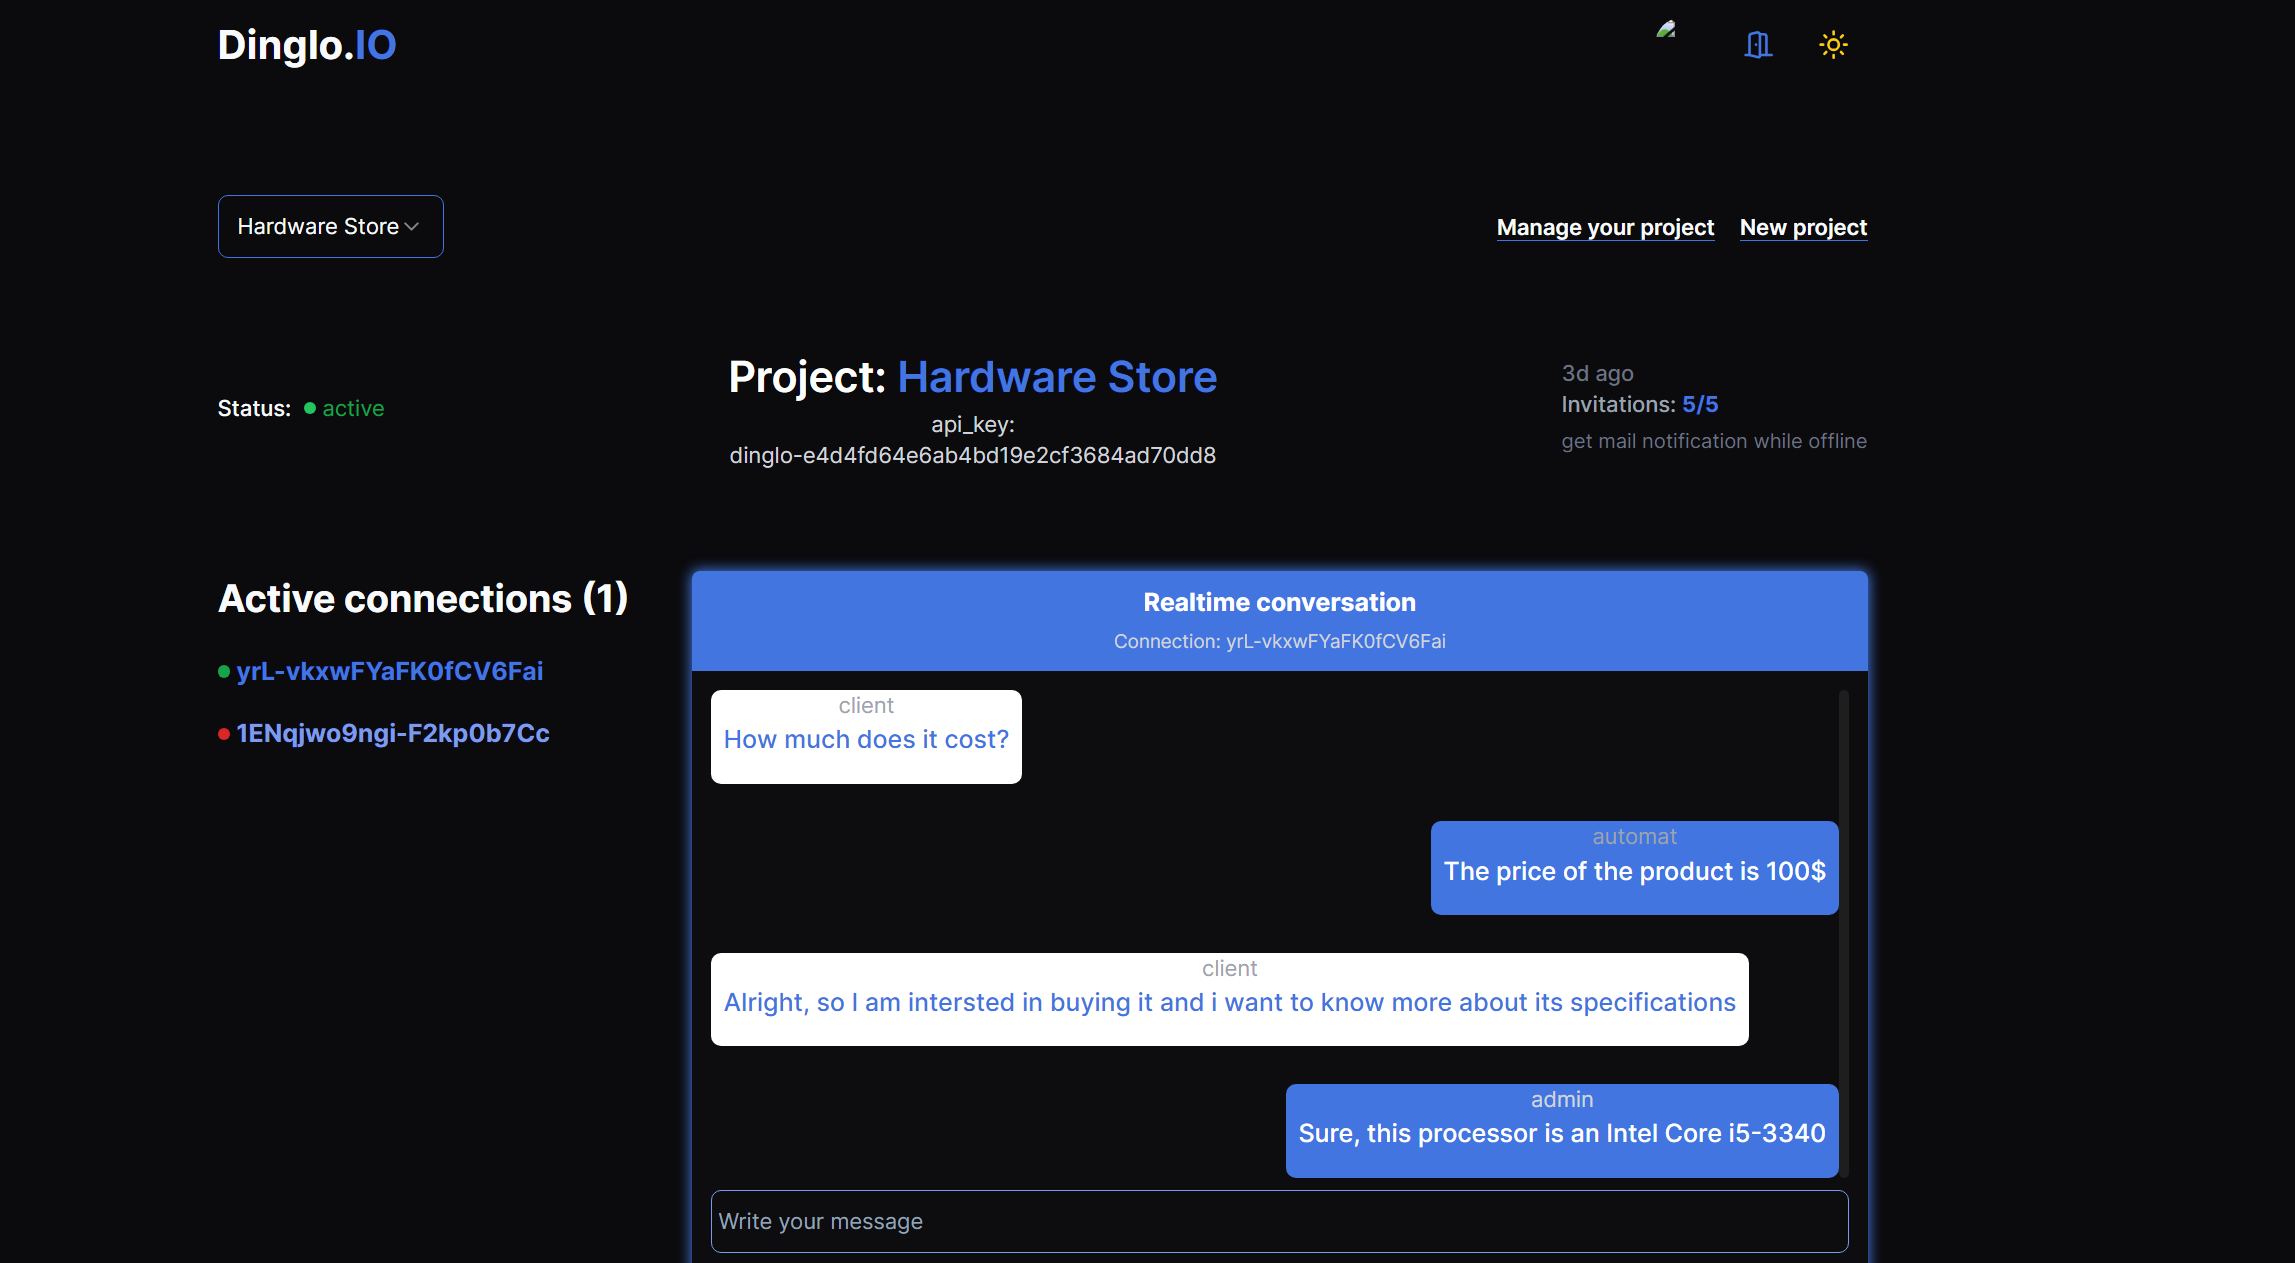
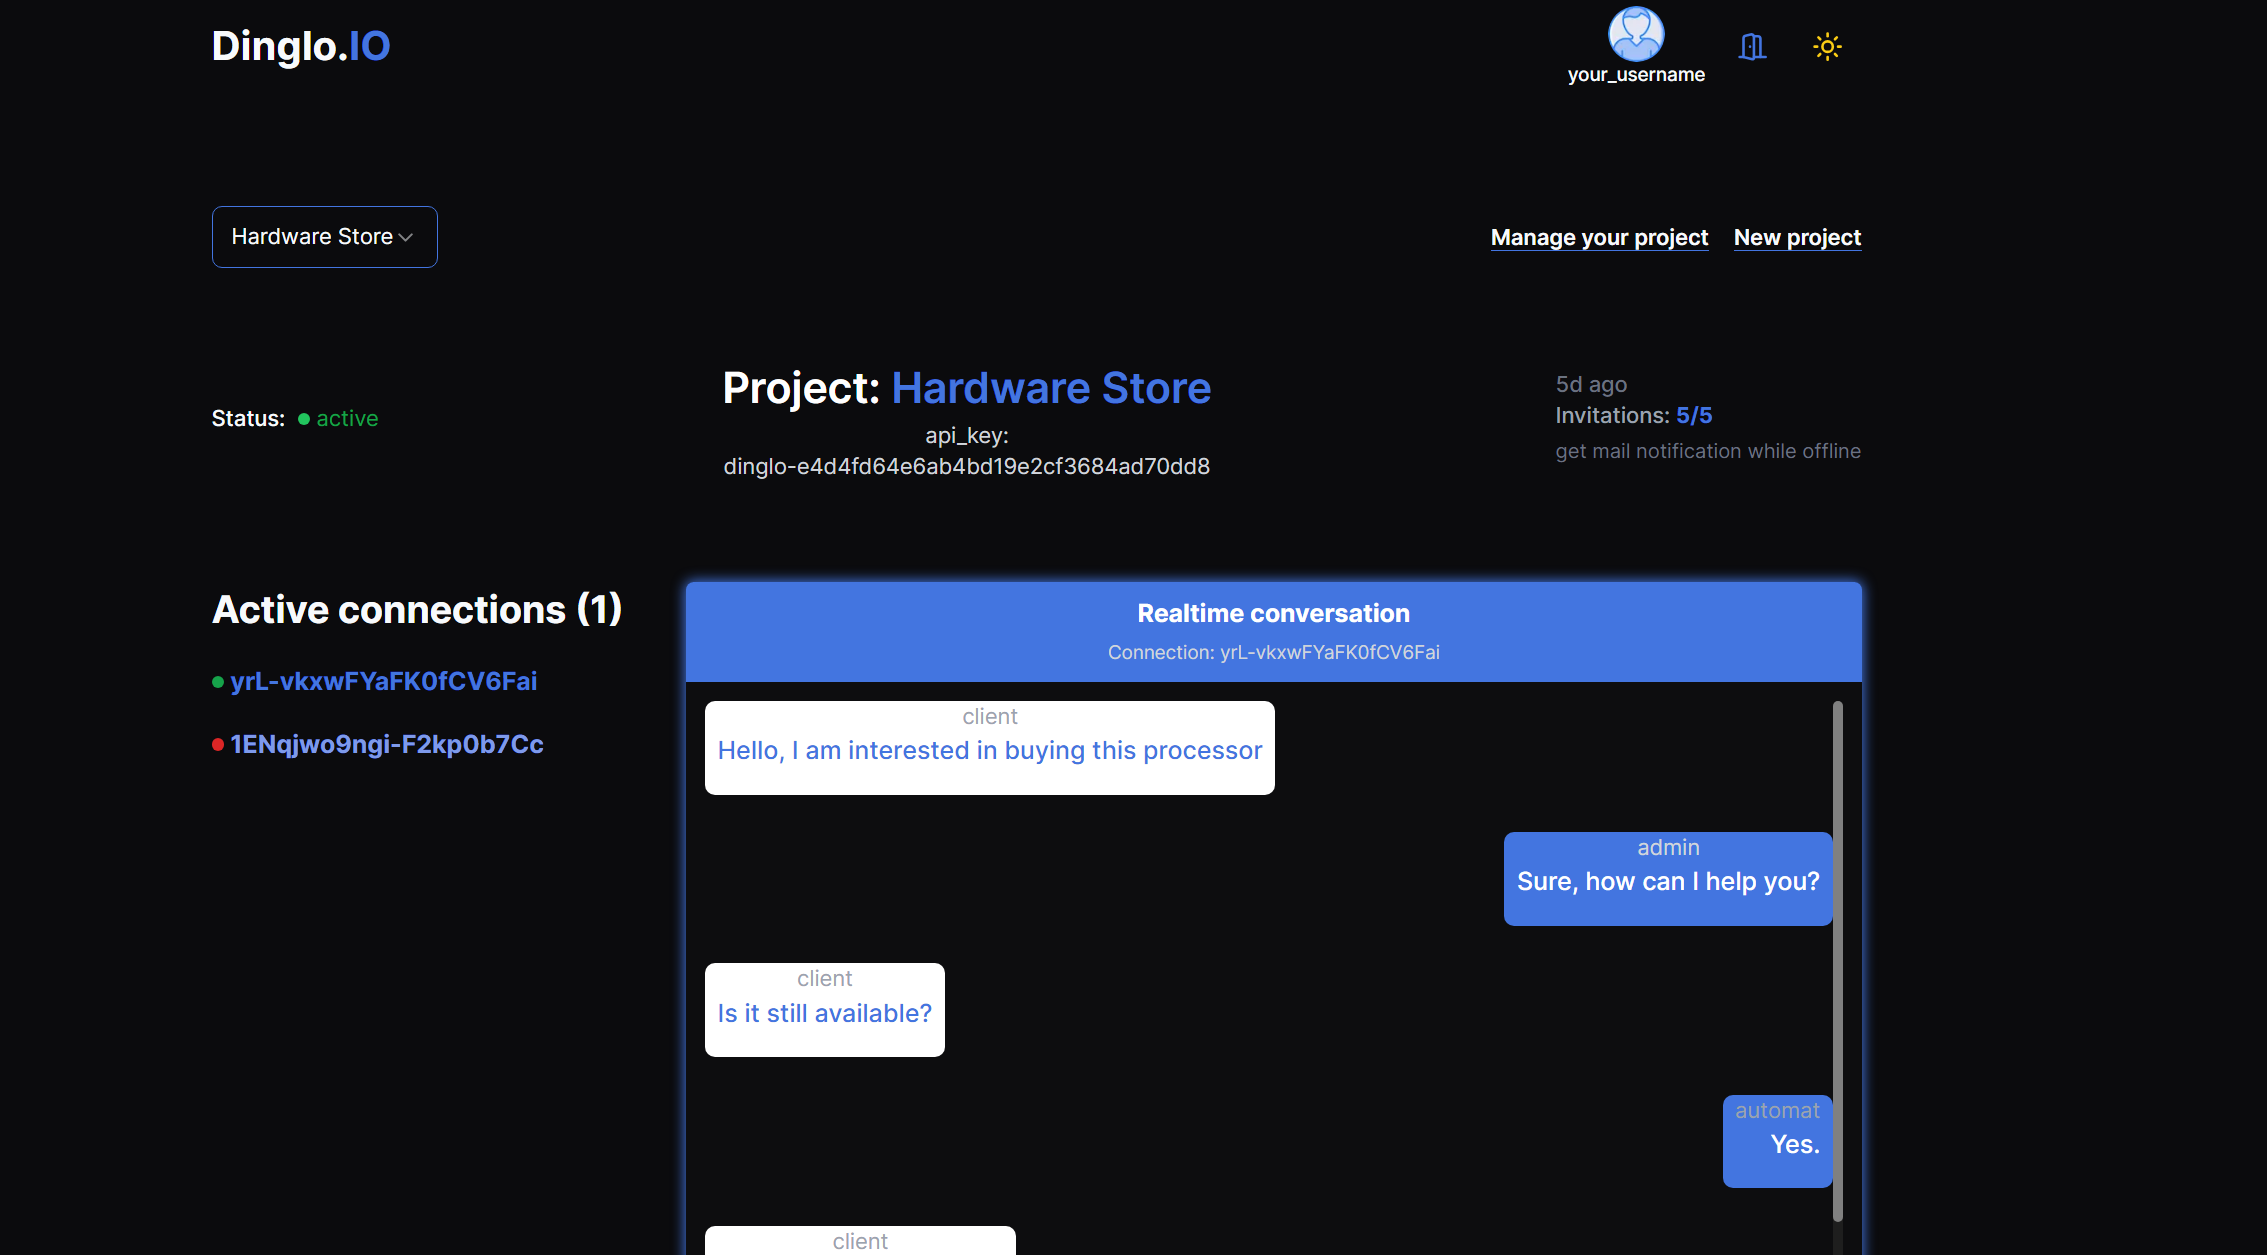
chore - docs adjustments

diff --git a/app/(routes)/docs/workflow/page.tsx b/app/(routes)/docs/workflow/page.tsx
@@ -1,13 +1,22 @@
 import Image from "next/image";
 import { DocumentationSectionLink } from "../components/documentation-section-link";
-import { ArrowRight, File, FileBadge, FileBox, FolderArchive, Text, Waves } from "lucide-react";
+import {
+  ArrowRight,
+  File,
+  FileBadge,
+  FileBox,
+  FolderArchive,
+  Text,
+  Waves,
+} from "lucide-react";
 
 const AgentCustomizationPage = () => {
   return (
     <div>
       <h1 className="font-bold text-[2.3em]">Workflow</h1>
       <p className="text-sm font-medium dark:text-gray-300">
-        This is a simplificated version that showcase the workflow behind the widget
+        This is a simplified version that showcases the workflow behind the
+        widget.{" "}
       </p>
       <div className="mt-6">
         <Image
@@ -20,32 +29,47 @@ const AgentCustomizationPage = () => {
           alt="Agent Customization"
         />
 
-        <div>
-            <p className="font-bold">
-                How it works?
-            </p>
-            <p className="text-sm font-medium dark:text-gray-300">
-                When a new message is created, the payload is sent to the server which is proccessing it, and based on that is emitting, to the specific client. All events are following this flow as is
-                flexibble and more easy to handle.
-            </p>
+        <div className="mt-4">
+          <p className="font-bold">How it works?</p>
+          <p className="text-sm font-medium dark:text-gray-300">
+            When a new message is created, the payload is sent to the server
+            which is proccessing it, and based on that is emitting, to the
+            specific client. All events are following this flow as is flexibble
+            and more easy to handle.
+          </p>
         </div>
         <div className="mt-4">
-            <p className="font-bold">
-                What if there is some error?
-            </p>
-            <p className="text-sm font-medium dark:text-gray-300">
-                We care about your relationships with your users, that's why we have implemented alongside chat widget itself, an internal error handling which enusures that the conversation is in sync even if there is an error.
-
-                <br/>For example let's say that you responded to your user, and while processing it's being thrown an error for any reason, the message will not be delivered or if it is, it is taken out from the client, by the server, ensuring that no buggy or short-lifetime messages are in.
-            </p>
+          <p className="font-bold">What if there is some error?</p>
+          <p className="text-sm font-medium dark:text-gray-300">
+            We prioritize the quality of your interactions with users, which is
+            why we have seamlessly integrated an internal error-handling
+            mechanism alongside the chat widget itself. This ensures that the
+            conversation remains synchronized, even in the event of an error.
+            <br />
+            For instance, if you provide a response to a user and an error
+            occurs during processing, the message will either not be delivered,
+            or if it has been delivered, it will be promptly removed from the
+            client by the server. This meticulous error-handling approach
+            guarantees the exclusion of any problematic or short-lived messages,
+            preserving the integrity of your communication process.
+          </p>
         </div>
-        
       </div>
       <div className="mt-12 flex flex-col md:flex-row justify-between gap-10">
-      <DocumentationSectionLink path={"/docs/customization"} icon={<FileBox className="w-6 h-6 text-softBlue"/>} title="Widget Customization" label="Learn how to customize your chat widget"/>
+        <DocumentationSectionLink
+          path={"/docs/customization"}
+          icon={<FileBox className="w-6 h-6 text-softBlue" />}
+          title="Widget Customization"
+          label="Learn how to customize your chat widget"
+        />
 
-                <DocumentationSectionLink path={"/docs"} icon={<Text className="w-6 h-6 text-softBlue"/>} title="Introduction" label="Back to introduction"/>
-            </div>
+        <DocumentationSectionLink
+          path={"/docs"}
+          icon={<Text className="w-6 h-6 text-softBlue" />}
+          title="Introduction"
+          label="Back to introduction"
+        />
+      </div>
     </div>
   );
 };

diff --git a/app/(routes)/docs/page.tsx b/app/(routes)/docs/page.tsx
@@ -29,14 +29,14 @@ const DocumentationPage = () =>{
                     </div>
                     <div className="flex items-center gap-1">
                         <div className="w-[5px] h-[5px] rounded-full bg-softBlue"/>
-                        <p className="text-[.85em]"><InfoText>100%</InfoText> widget customizibility</p>
+                        <p className="text-[.85em]"><InfoText>100%</InfoText> widget customizability</p>
                     </div>
                 </div>
             </div>
 
             <div className="mt-12 flex flex-col md:flex-row justify-between gap-10">
-                <DocumentationSectionLink path={"/docs/quickstart"} icon={<Rocket className="w-6 h-6 text-softBlue"/>} title="Quickstart" label="I want to use it now"/>
-                <DocumentationSectionLink path={"/docs/api-reference"} icon={<Code className="w-6 h-6 text-softBlue"/>} title="API Reference" label="Learn how can you interact with our servers"/>
+                <DocumentationSectionLink path={"/docs/quickstart"} icon={<Rocket className="w-6 h-6 text-softBlue"/>} title="Quickstart" label="Get started in a few minutes"/>
+                <DocumentationSectionLink path={"/docs/api-reference"} icon={<Code className="w-6 h-6 text-softBlue"/>} title="API Reference" label="Learn how you can interact with our server"/>
             </div>
         </div>
     )

diff --git a/app/(routes)/docs/agent-customization/page.tsx b/app/(routes)/docs/agent-customization/page.tsx
@@ -12,9 +12,9 @@ const AgentCustomizationPage = () => {
       </p>
       <div className="mt-6">
         <Image
-          src={"/agent-customization.png"}
-          width={2406}
-          height={2202}
+          src={"/predefined-answers.png"}
+          width={2242}
+          height={1230}
           className="w-full h-full mx-auto max-h-[600px] rounded-md object-cover"
           priority
           quality={100}
@@ -53,7 +53,7 @@ const AgentCustomizationPage = () => {
                 Project status
             </p>
             <p className="text-sm font-medium dark:text-gray-300">
-                You can toggle the chat widget status by interacting with the turn off button, which will trigger an event that will shut down the project, making it unusable until your reboot it again. This can be useful if you want to disable it for some reasons like, a website breach, experimenting, etc.
+                You can toggle the chat widget status by interacting with the turn off button, which will trigger an event that will shut down the project, making it unusable until your reboot it again. This can be useful if you want to disable it for some reasons like, a security breach, experimenting, etc.
             </p>
         </div>
       </div>

diff --git a/components/header.tsx b/components/header.tsx
@@ -1,13 +1,19 @@
 import { Logo } from "@/components/logo"
 import { SignOut } from "@/components/sign-out"
 import { ThemeToggler } from "@/components/theme-toggler"
+import { getAuthSession } from "@/lib/authOptions"
 
-export const Header = () =>{
+export const Header = async () =>{
+
+    const session = await getAuthSession();
+
+
+
     return (
         <div className="py-3 flex items-center justify-between">
             <Logo/>
             <div className="flex items-center">
-                <SignOut profileName="dns" profileImage="/workflow.png"/>
+                <SignOut profileName={"your_username"} profileImage={"/default-user-profile.png"}/>
                 <ThemeToggler/>
             </div>
         </div>

diff --git a/app/(routes)/docs/interface/page.tsx b/app/(routes)/docs/interface/page.tsx
@@ -7,13 +7,13 @@ const DashboardInterfacePage = () => {
     <div>
       <h1 className="font-bold text-[2.3em]">Dashboard Interface</h1>
       <p className="text-sm font-medium dark:text-gray-300">
-        Explore our super lightweight and intuitive dashboard interface!
+        Explore our super lightweight and intuitive dashboard interface !
       </p>
       <div className="mt-6">
         <Image
           src={"/dashboard-interface.png"}
-          width={2295}
-          height={1263}
+          width={2267}
+          height={1255}
           className="w-full h-full mx-auto max-h-[600px] rounded-md object-cover"
           priority
           quality={100}

diff --git a/app/(routes)/docs/constants/index.ts b/app/(routes)/docs/constants/index.ts
@@ -56,7 +56,7 @@ export const packageSetup = `import DingloIO from "dinglo-io";
 const dingloIO = new DingloIO();
 dingloIO.initializeSocket("your_api_key");
 
-export {dingloIO};
+export default dingloIO;
 `;
 
 export const codeExample = `import dingloIO, {dingloMessage} from "dinglo-io"
@@ -136,7 +136,7 @@ export const CreateMessage = () => {
     onSettled:()=>{
       queryClient.invalidateQueries({queryKey:["fetchedMessages"]});
 
-      //emit the message to our dashboard
+      //revalidate data on the dashboard
       dingloIO.socket?.emit("invalidate-query");
     }
   });

diff --git a/app/(routes)/docs/quickstart/page.tsx b/app/(routes)/docs/quickstart/page.tsx
@@ -10,7 +10,7 @@ const QuickstartPage = () =>{
         <div>
         <h1 className="font-bold text-[2.3em]">Quickstart</h1>
         <p className="text-sm font-medium dark:text-gray-300">
-            Get started in minutes by following our few steps!
+            Get started in minutes by following our step by step guide !
         </p>
         <div className="mt-12 space-y-4">
             <Step stepNumber={1} title="Installation">
